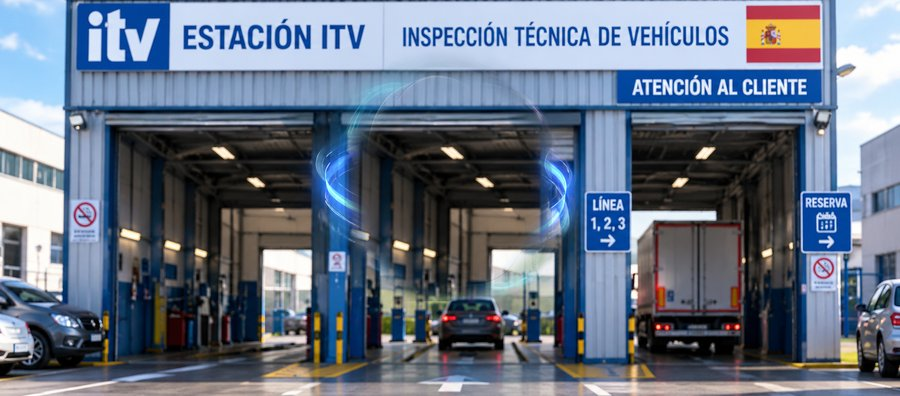
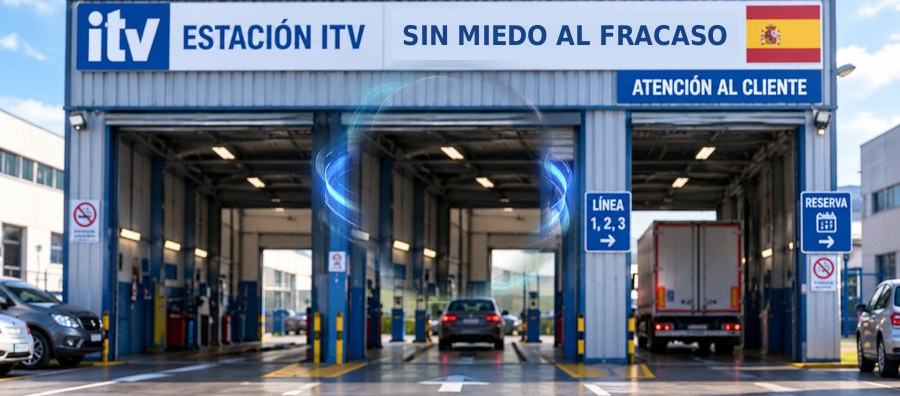
Add files via upload

Changed region(s): [[0.4356, 0.0606, 0.8089, 0.1212]]

diff --git a/index.html b/index.html
@@ -1,6 +1,7 @@
 <!DOCTYPE html>
 <html lang="es">
 <head>
+<!-- v618 (09/09/2026): ITV CITAS - EL CARTEL DE LA FOTO DICE "SIN MIEDO AL FRACASO". JC: en la foto de Proximas citas, donde pone "INSPECCION TECNICA DE VEHICULOS", poner "SIN MIEDO AL FRACASO". Se retoca itv_fondo_cita.jpg (se tapa el texto del panel blanco fila a fila con su propio color y se escribe el nuevo en azul del cartel, DejaVu Sans Condensed Bold). El resto de la foto y la moneda no cambian. En index.html solo cambia el src de la imagen a itv_fondo_cita.jpg?v618 (cache-buster, si no Chrome seguiria ensenando la foto vieja). app.js y styles.css NO cambian. NO requiere SQL. Sube index.html + itv_fondo_cita.jpg (sobrescribir la foto). cache app.js?v=618. VUELTA ATRAS: resubir index.html y la foto de la v615. -->
 <!-- v617 (09/09/2026): ALBARANES - COLUMNA PROPIA "ANEXO" CON BOTON DE DESCARGA DIRECTA. JC tras la v616: la flechita junto al clip "asi no, tiene que ser mas visible y limpio"; al pinchar le abria el modal (el icono era minusculo y se pisaba con el numero). AHORA: columna nueva "Anexo" justo despues de "N Albaran" con un boton verde claro "⬇ 📎" (y el numero de anexos si hay mas de uno); un clic = descarga directa (1 anexo = fichero; varios = ZIP), sin abrir nada. Si el albaran no tiene anexos sale un guion apagado. El clip antiguo dentro de la celda del numero se QUITA (ya no hace falta). La celda para el clic (stopPropagation) para que no abra el modal. El colspan de la fila "ver mas" pasa de 15 a 16. El modal y el boton "Anexos ZIP" de seleccion (v616) no cambian. CSS nuevo .btn-anexo en styles.css. NO requiere SQL. Sube app.js + index.html + styles.css. cache app.js?v=617, styles.css?v=52. VUELTA ATRAS: resubir los tres de la v616 (link css a v=51). -->
 <!-- v616 (09/09/2026): ALBARANES - DESCARGA DIRECTA DE ANEXOS SIN ABRIR EL MODAL. JC: "no puedo descargar los anexos directamente; tengo que abrir el anexo y luego descargarlo, me lleva mucho tiempo; quiero una columnita con el clip para descargar directo, en el modal igual, y seleccionar diez que lleven anexo y descargarlos todos a la vez; todos los que tenemos permiso". TRES PUERTAS: (1) LISTA: junto al clip del numero de albaran aparece un icono de flecha hacia abajo (solo si tiene anexos): 1 anexo = descarga el fichero suelto; varios = ZIP del albaran. (2) MODAL, seccion ANEXOS: boton "Descargar" en cada anexo (el "Ver" sigue abriendolo en pestana) y boton "Descargar todos (ZIP)" cuando hay mas de uno. (3) SELECCION: boton nuevo "Anexos ZIP (N)" junto a "Excel seleccionados": un ZIP con los anexos de todos los albaranes marcados, una carpeta por albaran (NUMERO_MATRICULA_FECHA) con los nombres originales de los ficheros; avisa si ninguno de los marcados tiene anexos y cuenta los que fallan. Nombres de fichero suelto: NUMERO_MATRICULA_FECHA_nombreoriginal. PERMISOS: los mismos que ver el albaran (los anexos ya vienen firmados al cargar por firmarAdjuntos, se usa a._urlFirmada || a.url). Usa JSZip que ya estaba cargado. Funciones nuevas en app.js: _descargarAnexosAlb (lista), _descargarAnexoModal (modal), _descargarAnexosSeleccionados (seleccion) y auxiliares _descargarAnexosDe/_fetchAnexo/_bajarBlob. Plan B si falla el fetch: abre en pestana nueva como antes. NO requiere SQL. Sube app.js + index.html. cache app.js?v=616. VUELTA ATRAS: resubir app.js + index.html de la v615. -->
 <!-- v615 (09/09/2026): ITV CITAS - FOTO NUEVA SIN MANO Y MONEDA "itv" AZUL / ROJA GIRANDO. JC pidio quitar la mano de la caja de Citas; como no se puede borrar una mano de una foto sin inventarse el fondo, genero el una segunda foto (estacion entera sin mano, con una moneda "itv" y un halo azul girando). Pidio: la moneda dando vueltas, una cara AZUL y la otra ROJA "no muy intensa para que no quede feo con el fondo", y SIN cambiar el nombre itv de la moneda. HECHO: fichero NUEVO itv_fondo_cita.jpg (900x396): su foto con la moneda pintada TAPADA clonando la bahia de la izquierda (se conserva el halo azul de la foto como fondo del giro); encima, la moneda HTML/SVG de dos caras: azul metalico con "itv" en blanco, y roja apagada (#c4605e) con "itv". Sigue girando sin decidirse (misma animacion de caras itvCitaCaraA/B de la v612) pero ya no sale del pulgar: se queda flotando en el centro del halo (keyframes itvCitaSube ahora van de ese punto a ese punto). La caja de Registro NO cambia (sigue itv_fondo.jpg con la mano y el APTO/NO APTO). app.js NO cambia. NO requiere SQL. Sube index.html + styles.css + itv_fondo_cita.jpg (TRES). cache app.js?v=615, styles.css?v=51. VUELTA ATRAS: resubir index.html + styles.css de la v614 (link css a v=50). -->
@@ -1603,7 +1604,7 @@ if (typeof pdfjsLib !== 'undefined') {
             <!-- v107H4: zona de arrastrar/soltar para CITAS ITV (además del botón). Solo imágenes. -->
             <div class="dz" id="dzCita" ondragenter="dragEnter(event)" ondragover="ev(event)" ondragleave="el(event)" ondrop="dropCita(event)" style="margin-bottom:12px">
               <input type="file" accept="image/*" onchange="handleCitaFiles(this.files); this.value='';">
-              <div class="itvFoto itvFotoCita" aria-hidden="true"><img src="itv_fondo_cita.jpg" alt=""><div class="itvCoinMove"><div class="itvCoinSpin"><div class="itvCoinFace"><svg viewBox="-80 -80 160 160" xmlns="http://www.w3.org/2000/svg"><defs><radialGradient id="gAz" cx="35%" cy="30%" r="80%"><stop offset="0" stop-color="#8fc3ff"/><stop offset=".65" stop-color="#2f6fc4"/><stop offset="1" stop-color="#123a75"/></radialGradient></defs><circle r="80" fill="url(#gAz)" stroke="#0d2a55" stroke-width="3"/><circle r="74" fill="none" stroke="#ffffff" stroke-opacity=".55" stroke-width="2" stroke-dasharray="3 3"/><circle r="66" fill="none" stroke="#ffffff" stroke-opacity=".25" stroke-width="1.5"/><text y="22" text-anchor="middle" font-family="Arial Black,Arial,Helvetica,sans-serif" font-weight="900" font-size="62" letter-spacing="-3" fill="#ffffff" stroke="rgba(0,0,0,.25)" stroke-width="1.5">itv</text></svg></div><div class="itvCoinFace itvCoinBack"><svg viewBox="-80 -80 160 160" xmlns="http://www.w3.org/2000/svg"><defs><radialGradient id="gRj" cx="35%" cy="30%" r="80%"><stop offset="0" stop-color="#f0b3b0"/><stop offset=".65" stop-color="#c4605e"/><stop offset="1" stop-color="#7d3533"/></radialGradient></defs><circle r="80" fill="url(#gRj)" stroke="#5e2624" stroke-width="3"/><circle r="74" fill="none" stroke="#ffffff" stroke-opacity=".55" stroke-width="2" stroke-dasharray="3 3"/><circle r="66" fill="none" stroke="#ffffff" stroke-opacity=".25" stroke-width="1.5"/><text y="22" text-anchor="middle" font-family="Arial Black,Arial,Helvetica,sans-serif" font-weight="900" font-size="62" letter-spacing="-3" fill="#ffffff" stroke="rgba(0,0,0,.25)" stroke-width="1.5">itv</text></svg></div></div></div></div>
+              <div class="itvFoto itvFotoCita" aria-hidden="true"><img src="itv_fondo_cita.jpg?v618" alt=""><div class="itvCoinMove"><div class="itvCoinSpin"><div class="itvCoinFace"><svg viewBox="-80 -80 160 160" xmlns="http://www.w3.org/2000/svg"><defs><radialGradient id="gAz" cx="35%" cy="30%" r="80%"><stop offset="0" stop-color="#8fc3ff"/><stop offset=".65" stop-color="#2f6fc4"/><stop offset="1" stop-color="#123a75"/></radialGradient></defs><circle r="80" fill="url(#gAz)" stroke="#0d2a55" stroke-width="3"/><circle r="74" fill="none" stroke="#ffffff" stroke-opacity=".55" stroke-width="2" stroke-dasharray="3 3"/><circle r="66" fill="none" stroke="#ffffff" stroke-opacity=".25" stroke-width="1.5"/><text y="22" text-anchor="middle" font-family="Arial Black,Arial,Helvetica,sans-serif" font-weight="900" font-size="62" letter-spacing="-3" fill="#ffffff" stroke="rgba(0,0,0,.25)" stroke-width="1.5">itv</text></svg></div><div class="itvCoinFace itvCoinBack"><svg viewBox="-80 -80 160 160" xmlns="http://www.w3.org/2000/svg"><defs><radialGradient id="gRj" cx="35%" cy="30%" r="80%"><stop offset="0" stop-color="#f0b3b0"/><stop offset=".65" stop-color="#c4605e"/><stop offset="1" stop-color="#7d3533"/></radialGradient></defs><circle r="80" fill="url(#gRj)" stroke="#5e2624" stroke-width="3"/><circle r="74" fill="none" stroke="#ffffff" stroke-opacity=".55" stroke-width="2" stroke-dasharray="3 3"/><circle r="66" fill="none" stroke="#ffffff" stroke-opacity=".25" stroke-width="1.5"/><text y="22" text-anchor="middle" font-family="Arial Black,Arial,Helvetica,sans-serif" font-weight="900" font-size="62" letter-spacing="-3" fill="#ffffff" stroke="rgba(0,0,0,.25)" stroke-width="1.5">itv</text></svg></div></div></div></div>
               <div class="itvTxt"><div class="dz-t">Arrastra la foto de la cita · o <span class="hl">haz clic para seleccionar</span></div>
               <div class="dz-s">JPG · PNG (foto del SMS/email del centro ITV)</div></div>
             </div>
@@ -2796,6 +2797,6 @@ if (typeof pdfjsLib !== 'undefined') {
 <!-- v514 (Juan Carlos 11/08/2026): LOS REPASOS GUARDADOS DABAN "Cannot read properties of undefined (reading 'length') AL PULSAR VER O EXCEL. Culpa de la v512: por ahorrar sitio deje fuera de lo guardado los campos que venian vacios (difs, modo, y linea/rec cuando no habia). Pero el informe hace "a.difs.length" y el Excel hace "a.linea.tn" DANDO POR HECHO que existen, asi que al abrir un repaso guardado reventaba y los botones no hacian nada. Un objeto vacio ocupa 2 bytes: no se ahorraba nada y se rompia todo. Desde la v514 lo guardado tiene SIEMPRE la misma forma que lo recien cruzado (difs siempre array, modo siempre texto, linea y rec siempre objeto). IMPORTANTE: los repasos guardados con la v512/v513 se quedaron mal por dentro; hay que volver a cruzar el mes una vez para que se guarde bien. Solo app.js + index.html. NO requiere SQL. -->
 <!-- v515 (Juan Carlos 11/08/2026): TODAS LAS FAMILIAS A LA VISTA. Las pastillas de familia iban en una fila de tabla y salia barra de desplazamiento horizontal: habia que arrastrar para ver las ultimas. Ahora cada repaso es un bloque y las pastillas se reparten en varias lineas, todas visibles de golpe; los botones VER / EXCEL COMPLETO / X tambien bajan de linea si no caben. Va junto con el arreglo de la v514 (que no llego a subirse): los repasos guardados reventaban con "Cannot read properties of undefined (reading length)" porque la v512 dejaba fuera los campos vacios y el Excel hace a.difs.length dando por hecho que existen (traza confirmada por JC: factHolcimExcelPorMaterial linea 25582). Solo app.js + index.html. NO requiere SQL. IMPORTANTE: el repaso guardado con la v512/v513 esta mal por dentro; hay que quitarlo con la X y volver a cruzar el mes una vez. -->
 <!-- v516 (Juan Carlos 11/08/2026): REPARAR AL VUELO LOS REPASOS YA GUARDADOS. La v514/v515 arreglaron como se GUARDA, pero el repaso que JC ya tenia grabado con la v512 seguia mal por dentro y seguia reventando al pulsar EXCEL: solo salia bien "Nucleo Garraf -> Puerto Barcelona", la unica familia sin abonados y por eso la unica que nunca llegaba a la linea que peta (a.difs.length). Obligar a borrarlo con la X y volver a cruzar el mes entero es un apano, no un arreglo. Ahora, al abrir o exportar, lo guardado se REPARA en memoria antes de usarse: se le devuelve la forma que espera el informe (difs array, modo texto, linea y rec objeto). Funcionan igual los repasos nuevos y los viejos, sin que el usuario tenga que hacer nada. Solo app.js + index.html. NO requiere SQL. -->
-<script src="app.js?v=617"></script>
+<script src="app.js?v=618"></script>
 </body>
 </html>
